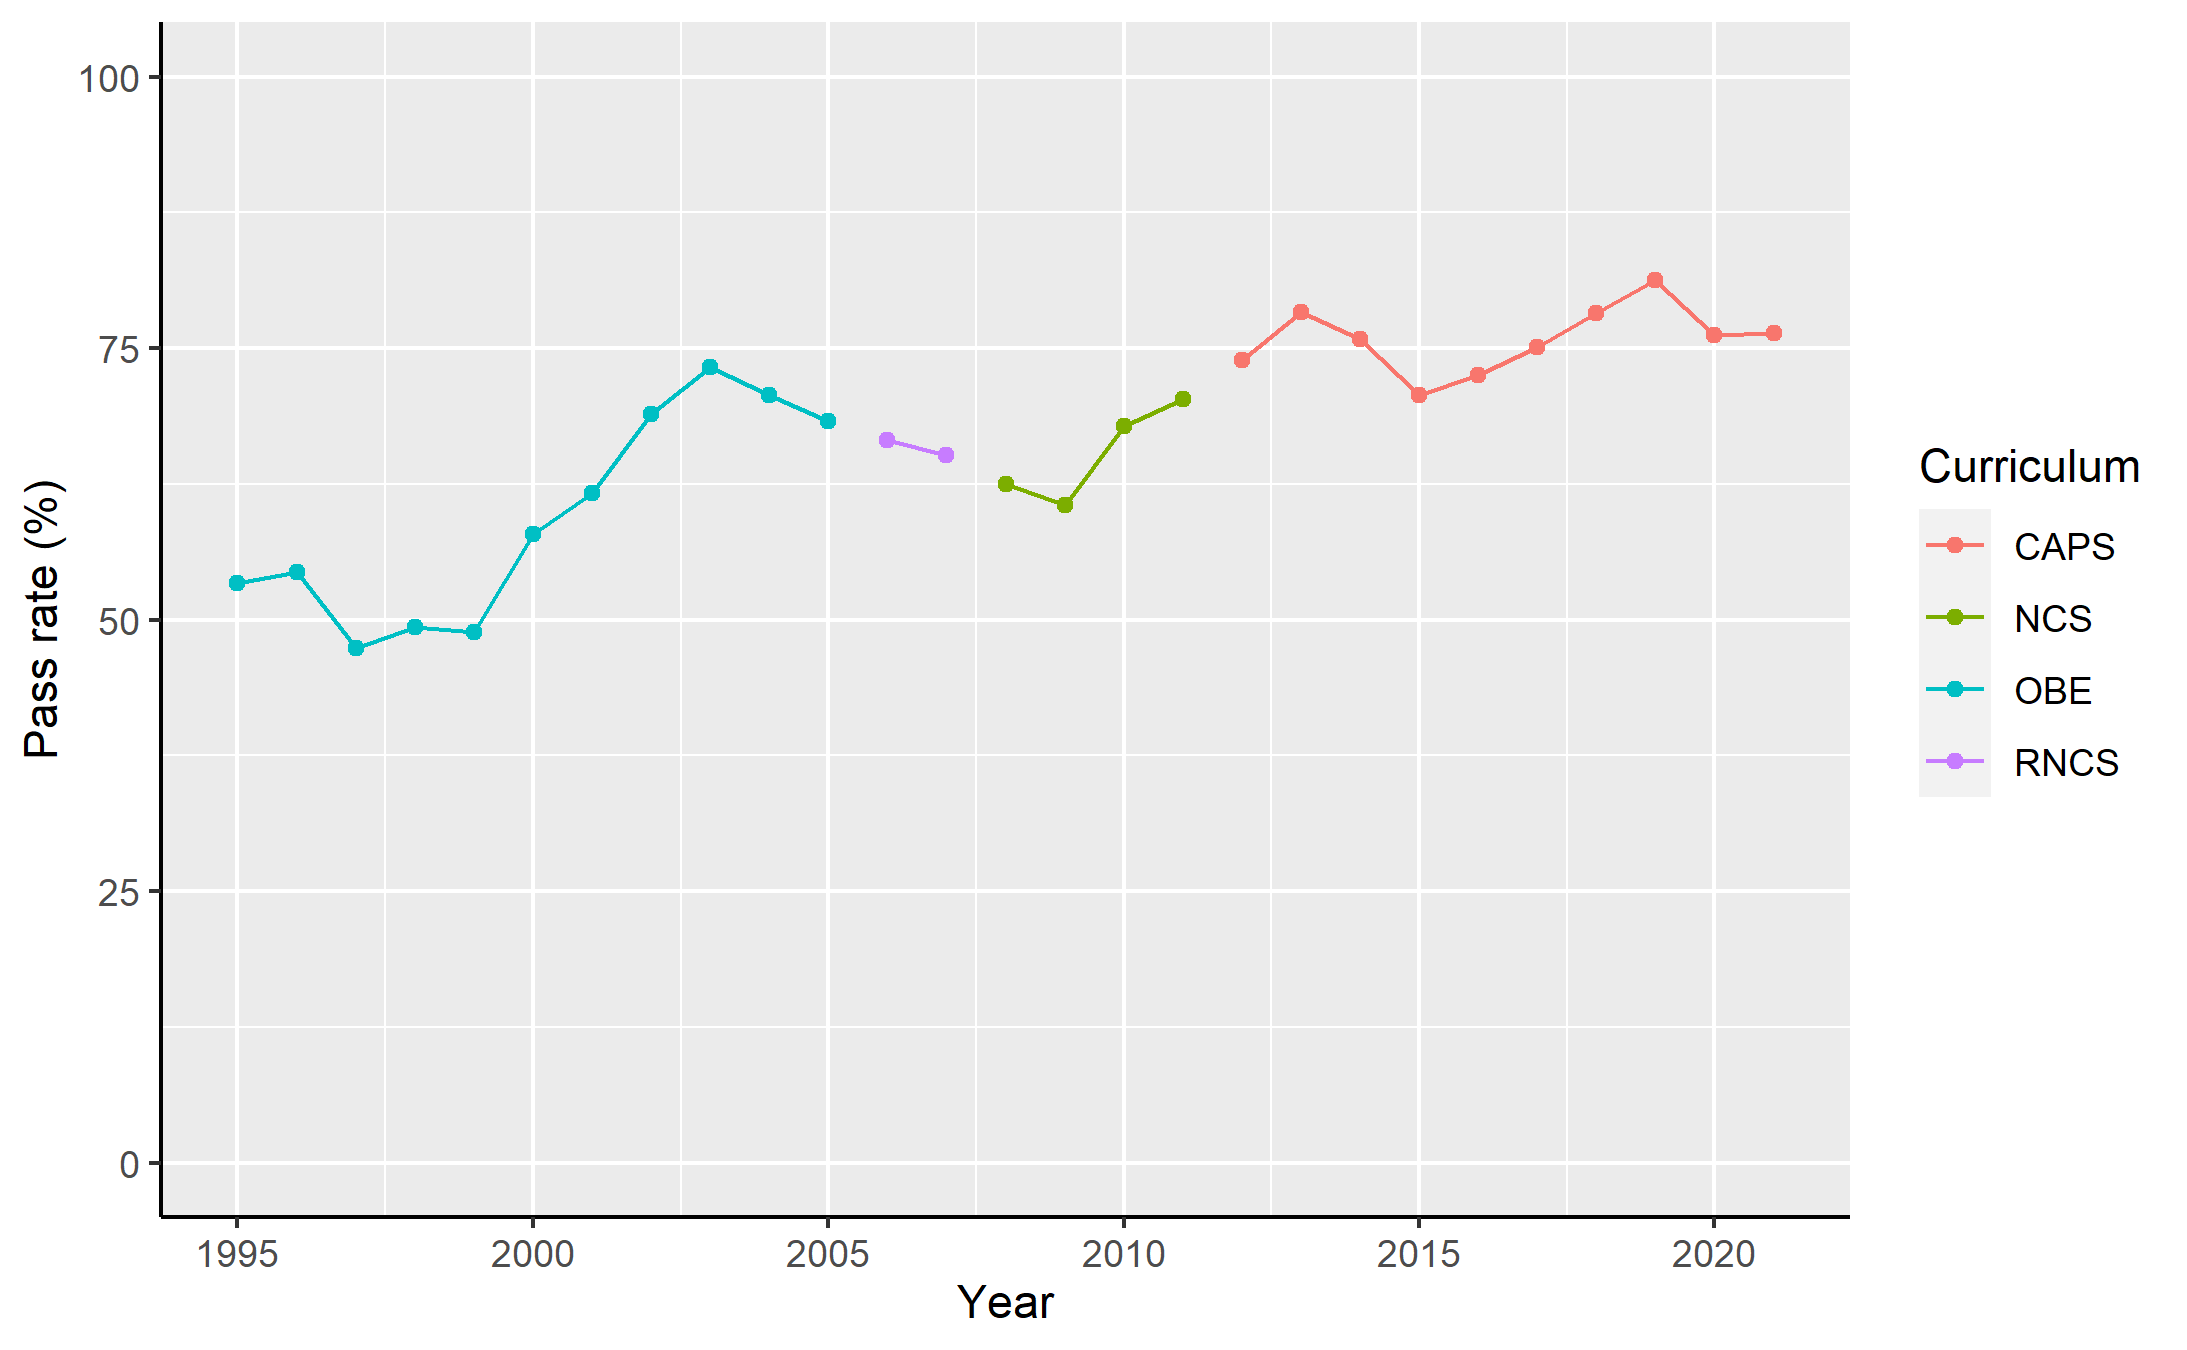
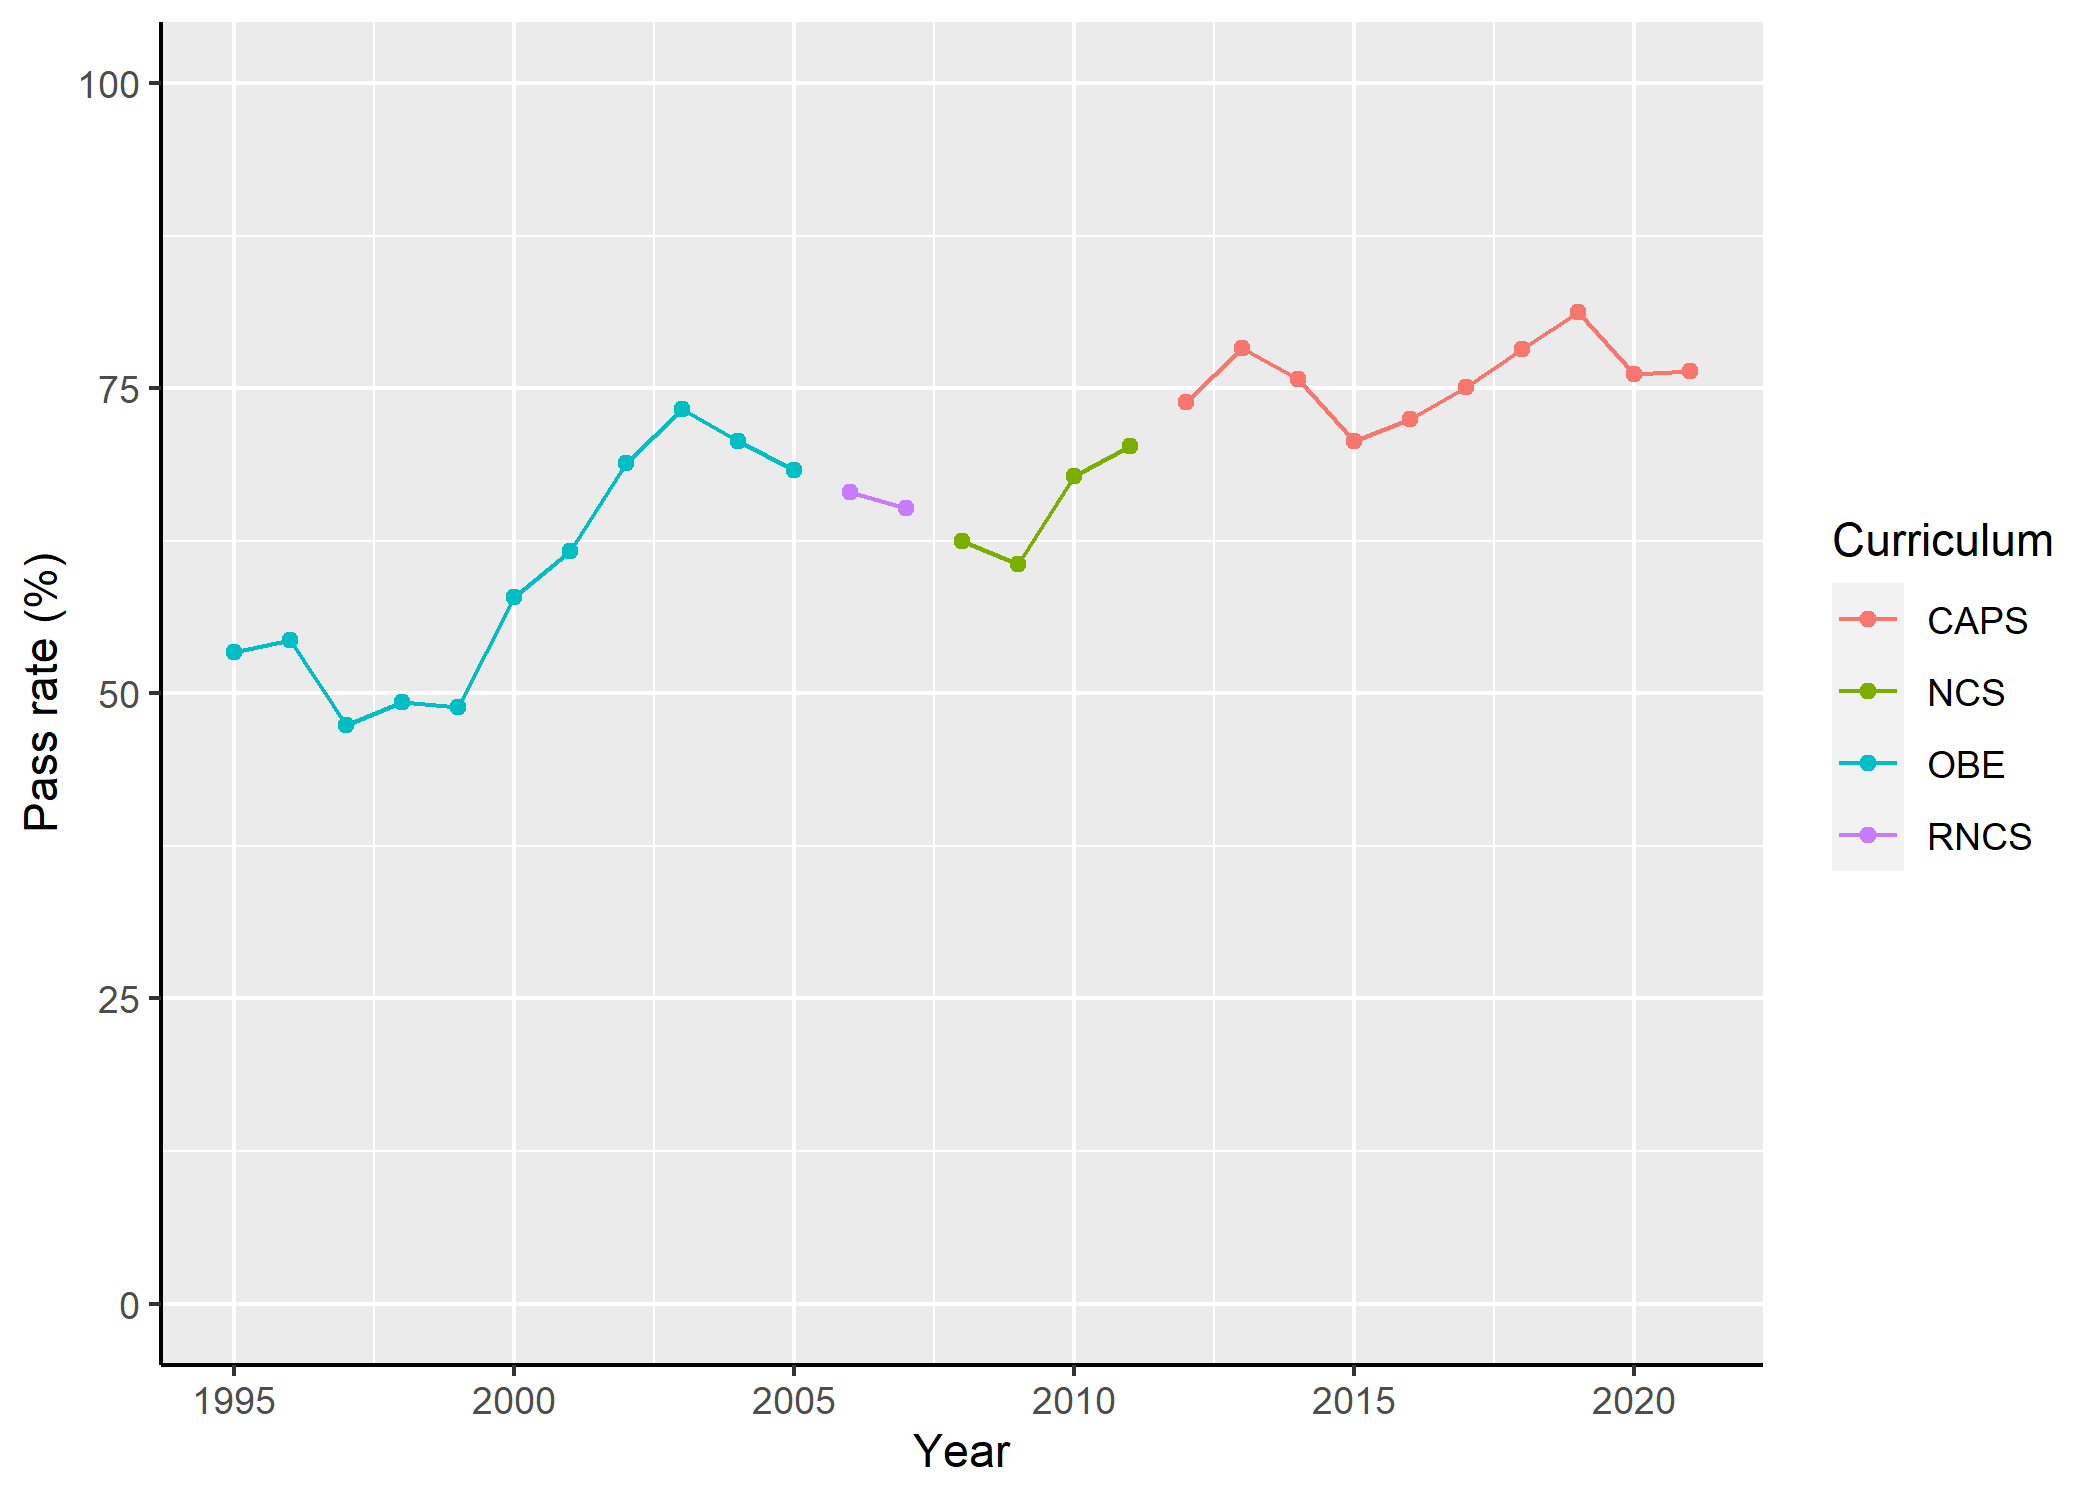
Updated html

diff --git a/matric_south_africa.html b/matric_south_africa.html
@@ -389,16 +389,7 @@ library(rvest)</code></pre>
 <pre class="r"><code>link = &quot;https://mybroadband.co.za/news/government/431106-south-africas-matric-pass-rate-official-vs-real-from-1995-to-2021.html&quot;
 page = read_html(link)
 
-matric_pass_rates = page %&gt;% html_nodes(&quot;td&quot;) %&gt;% html_text
-
-
-
-
-
-#matric_pass_rates_df$matric_pass_rates &lt;- &quot;data&quot;
-
-#Year &lt;- filter(matric_pass_rates_df, V1 == &quot;1995&quot;)
-#Rates &lt;- filter(matric_pass_rates, matric_pass_rates &lt; &quot;100&quot;)</code></pre>
+matric_pass_rates = page %&gt;% html_nodes(&quot;td&quot;) %&gt;% html_text</code></pre>
 </div>
 <div id="cleaning-confirmed-cases-data" class="section level2">
 <h2>Cleaning Confirmed Cases Data</h2>
@@ -417,13 +408,19 @@ colnames(matric_pass_rates_df) &lt;- c(&quot;Year&quot;, &quot;Pass_rate&quot;)
 matric_pass_rates_df$Year &lt;- as.numeric(matric_pass_rates_df$Year)
 matric_pass_rates_df$Pass_rate &lt;- as.numeric(matric_pass_rates_df$Pass_rate)
 
+matric_pass_rates_df &lt;- matric_pass_rates_df %&gt;% 
+      mutate(Curriculum = case_when(Year &gt;= 1990 &amp; Year &lt;= 2005 ~ &quot;OBE&quot;,
+                                   Year &gt;= 2004 &amp; Year &lt;= 2007 ~ &quot;RNCS&quot;,
+                                   Year &gt;= 2008 &amp; Year &lt;= 2011 ~ &quot;NCS&quot;,
+                                   Year &gt;= 2012 ~ &quot;CAPS&quot;))
+
 attach(matric_pass_rates_df)</code></pre>
 </div>
 <div id="data-visualisations" class="section level2">
 <h2>Data Visualisations</h2>
 <div id="pass_rate-1995---2021" class="section level3">
 <h3>Pass_rate 1995 - 2021</h3>
-<pre class="r"><code>(graph1 &lt;-ggplot(matric_pass_rates_df, aes(Year, Pass_rate)) + 
+<pre class="r"><code>(graph1 &lt;-ggplot(matric_pass_rates_df, aes(Year, Pass_rate, colour = Curriculum)) + 
    geom_line() + 
    geom_point() +
    ylim(0,100) + 
@@ -431,7 +428,7 @@ attach(matric_pass_rates_df)</code></pre>
    labs(x = &quot;Year&quot;, y = &quot;Pass rate (%)&quot;) + 
    theme(panel.background = element_rect(),
                     axis.line = element_line(colour =&quot;black&quot;)))</code></pre>
[2 lines of base64/hex data omitted]
 <pre class="r"><code>ggsave(filename = &quot;matric_pass_rates_South_Africa.png&quot;, graph1)</code></pre>
 <pre><code>## Saving 7 x 5 in image</code></pre>
 </div>
